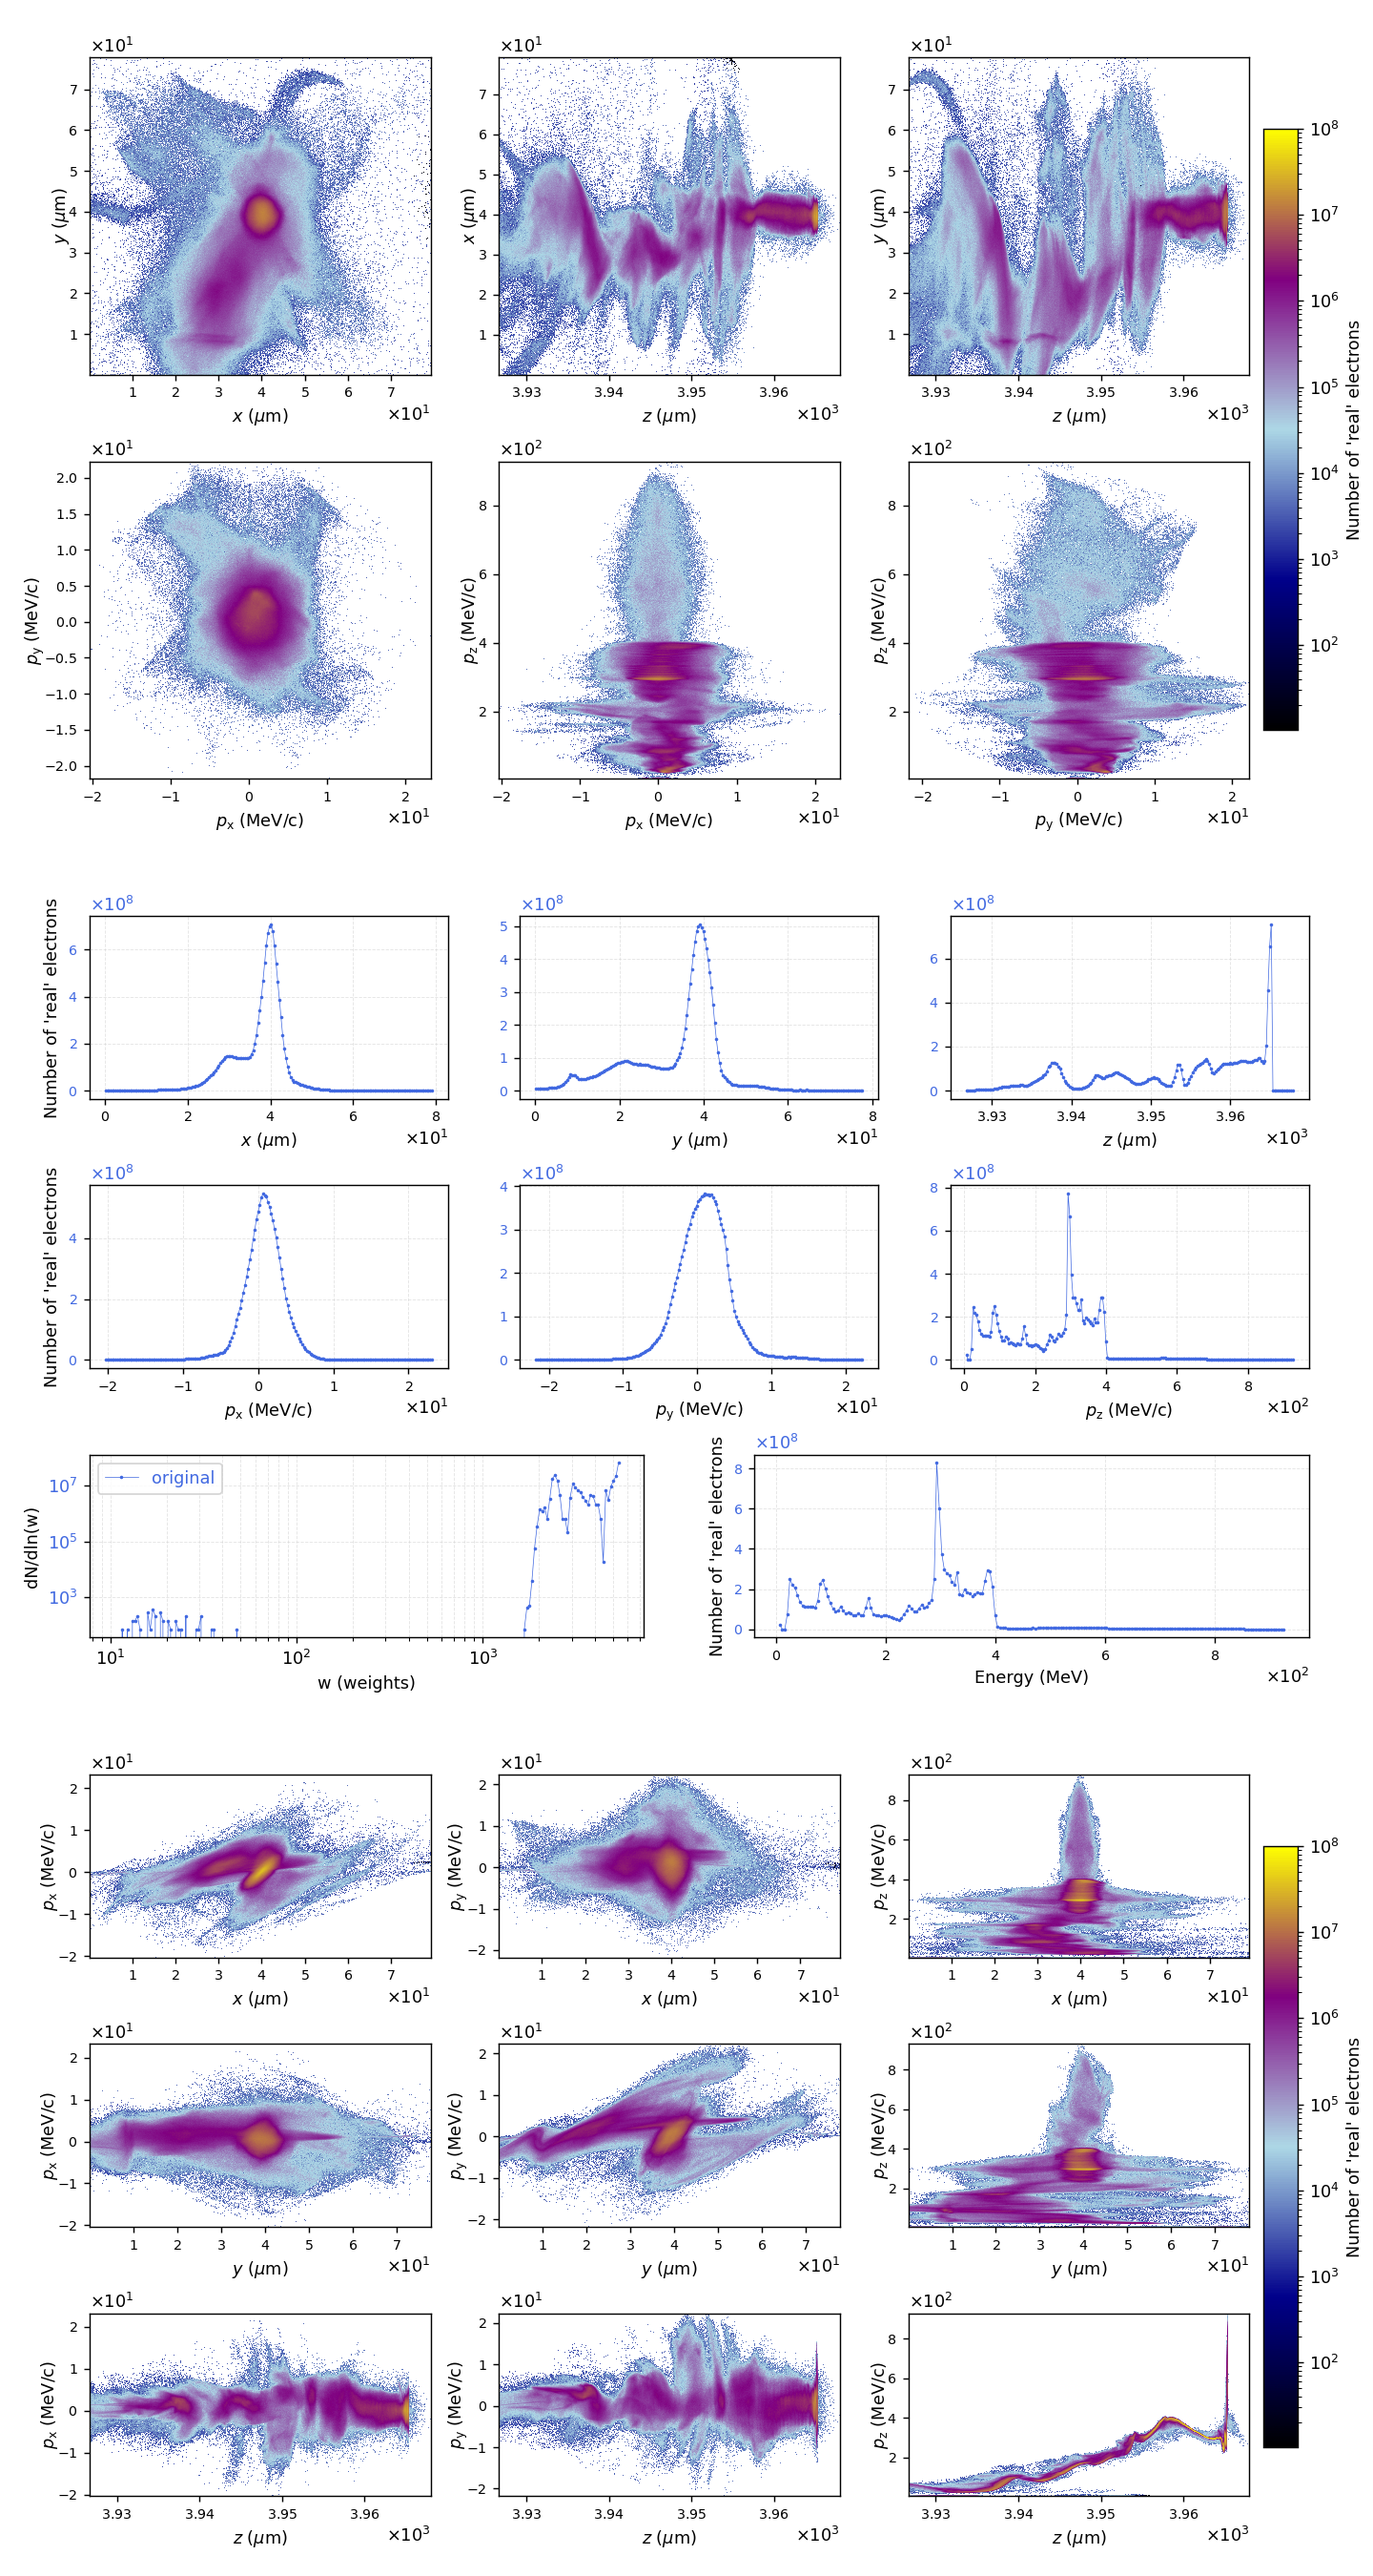
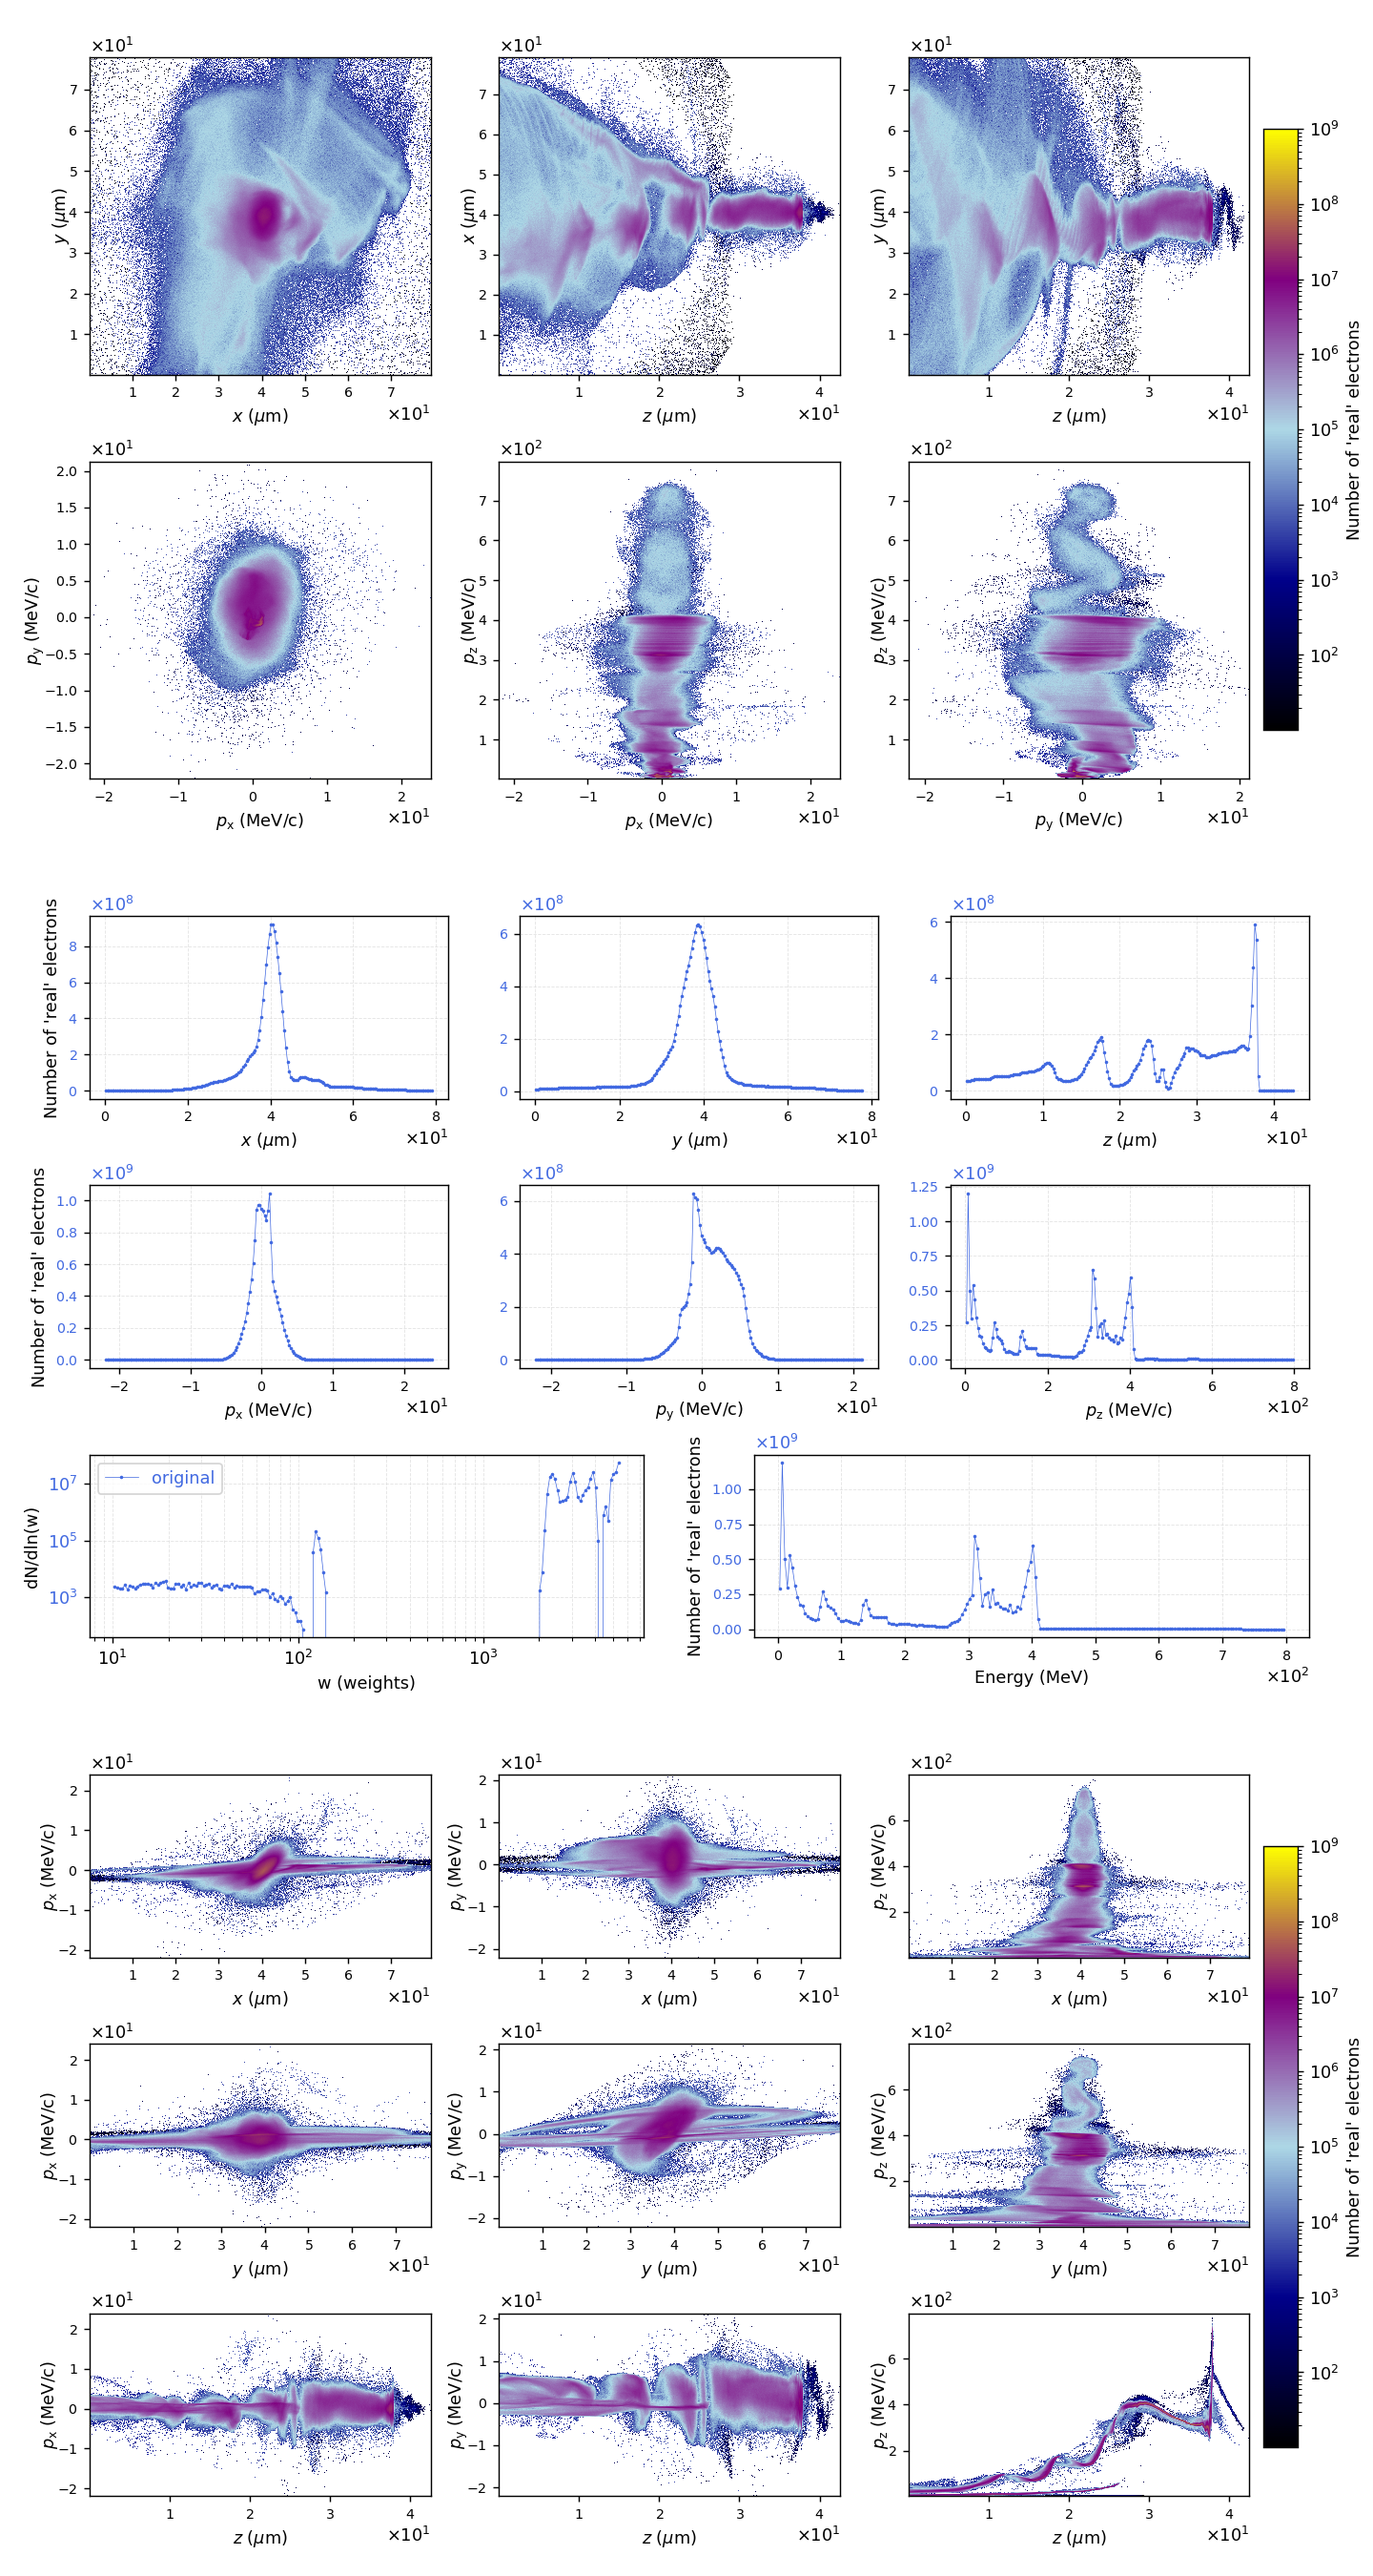
New plots

diff --git a/output.md b/output.md
@@ -1,36 +1,36 @@
 ## Output
 
-This is the output of `usage.py h5/lwfa.h5`
+This is the output of `usage.py h5/gas_126175.h5`
 
-Data generated using PIConGPU 0.5.0.
+Data generated using PIConGPU 0.6.0.
 
-h5/lwfa.h5 contains iteration 126175, at 13.33 ps.
+h5/gas_126175.h5 contains iteration 126175, at 13.33 ps.
 
 Swapping y and z axes.
 
 The particle bunch is propagating along the z direction.
 
-The dataset contains 3,356,185 macroparticles, corresponding to 13,369,720,832 'real' electrons.
+The dataset contains 4,332,044 macroparticles, corresponding to 16,716,122,112 'real' electrons.
 
 Descriptive statistics of the dataset:
 
 ```
 
        position_x_um  position_y_um  position_z_um  ...  momentum_z_mev_c       weights    energy_mev
-count   3.356185e+06   3.356185e+06   3.356185e+06  ...      3.356185e+06  3.356185e+06  3.356185e+06
-mean    3.650167e+01   3.171529e+01   3.950239e+03  ...      2.084972e+02  3.983607e+03  2.085688e+02
-std     6.424610e+00   1.142403e+01   1.097736e+01  ...      1.387299e+02  1.253296e+03  1.386893e+02
-min     2.887242e-04   1.977612e-04   3.926670e+03  ...      4.094411e+00  1.034352e+01  5.000027e+00
-25%     3.209686e+01   2.298315e+01   3.938653e+03  ...      8.165804e+01  2.535706e+03  8.172086e+01
-50%     3.826371e+01   3.595817e+01   3.950664e+03  ...      2.010373e+02  3.944592e+03  2.012327e+02
-75%     4.075175e+01   3.977995e+01   3.960708e+03  ...      3.144038e+02  5.282948e+03  3.144294e+02
-max     7.919274e+01   7.784132e+01   3.968009e+03  ...      9.286132e+02  5.442342e+03  9.286193e+02
+count   4.332044e+06   4.332044e+06   4.332044e+06  ...      4.332044e+06  4.332044e+06  4.332044e+06
+mean    3.993921e+01   3.782326e+01   2.086262e+01  ...      1.748451e+02  3.858715e+03  1.749383e+02
+std     7.965802e+00   9.775765e+00   1.129096e+01  ...      1.546655e+02  1.162251e+03  1.545994e+02
+min     2.318445e-03   1.408680e-04   1.454365e-05  ...      1.123521e+00  1.007878e+01  1.350325e+00
+25%     3.622627e+01   3.430883e+01   1.074843e+01  ...      2.553058e+01  2.919472e+03  2.579756e+01
+50%     3.981729e+01   3.808156e+01   2.117945e+01  ...      1.229009e+02  3.808745e+03  1.229675e+02
+75%     4.227043e+01   4.137350e+01   3.121758e+01  ...      3.233034e+02  5.119417e+03  3.233278e+02
+max     7.917679e+01   7.787860e+01   4.255122e+01  ...      7.983059e+02  5.442342e+03  7.983159e+02
 
 [8 rows x 8 columns]
 
 ```
 
-The (weighted) mean energy is 2.485225e+02 MeV.
+The (weighted) mean energy is 2.148729e+02 MeV.
 
 Wrote plots/phase_space.png
 
@@ -38,21 +38,21 @@ Wrote plots/phase_space.png
 
 Reducing number of particles.
 
-The dataset contains 1,680,082 macroparticles, corresponding to 1,680,082 'real' electrons.
+The dataset contains 2,167,504 macroparticles, corresponding to 2,167,504 'real' electrons.
 
 Descriptive statistics of the dataset:
 
 ```
 
        position_x_um  position_y_um  position_z_um  ...  momentum_z_mev_c    weights    energy_mev
-count   1.680082e+06   1.680082e+06   1.680082e+06  ...      1.680082e+06  1680082.0  1.680082e+06
-mean    3.728759e+01   3.349535e+01   3.953640e+03  ...      2.483902e+02        1.0  2.484482e+02
-std     5.898530e+00   1.048681e+01   1.021508e+01  ...      1.340374e+02        0.0  1.340014e+02
-min     2.877399e-02   1.977612e-04   3.926670e+03  ...      4.338036e+00        1.0  5.000275e+00
-25%     3.431252e+01   2.681100e+01   3.945349e+03  ...      1.240497e+02        1.0  1.241444e+02
-50%     3.894848e+01   3.749608e+01   3.956803e+03  ...      2.918549e+02        1.0  2.918729e+02
-75%     4.090325e+01   4.021048e+01   3.962577e+03  ...      3.332750e+02        1.0  3.333022e+02
-max     7.909510e+01   7.783379e+01   3.968009e+03  ...      9.286132e+02        1.0  9.286193e+02
+count   2.167504e+06   2.167504e+06   2.167504e+06  ...      2.167504e+06  2167504.0  2.167504e+06
+mean    4.014570e+01   3.779658e+01   2.396815e+01  ...      2.147524e+02        1.0  2.148256e+02
+std     6.812065e+00   8.731257e+00   1.097691e+01  ...      1.572316e+02        0.0  1.571711e+02
+min     4.202477e-03   6.272237e-04   1.777614e-04  ...      1.280980e+00        1.0  1.507752e+00
+25%     3.773128e+01   3.504658e+01   1.585886e+01  ...      4.260918e+01        1.0  4.272880e+01
+50%     4.017075e+01   3.827232e+01   2.571966e+01  ...      2.751293e+02        1.0  2.751438e+02
+75%     4.215109e+01   4.107590e+01   3.383397e+01  ...      3.477281e+02        1.0  3.477480e+02
+max     7.913539e+01   7.787860e+01   4.166655e+01  ...      7.508385e+02        1.0  7.508405e+02
 
 [8 rows x 8 columns]
 
@@ -64,5 +64,5 @@ Wrote plots/comparative_phase_space.png
 
 Writing dataframe to file. This may take a while...
 
-Wrote h5/lwfa.txt
+Wrote h5/gas_126175.txt
 
